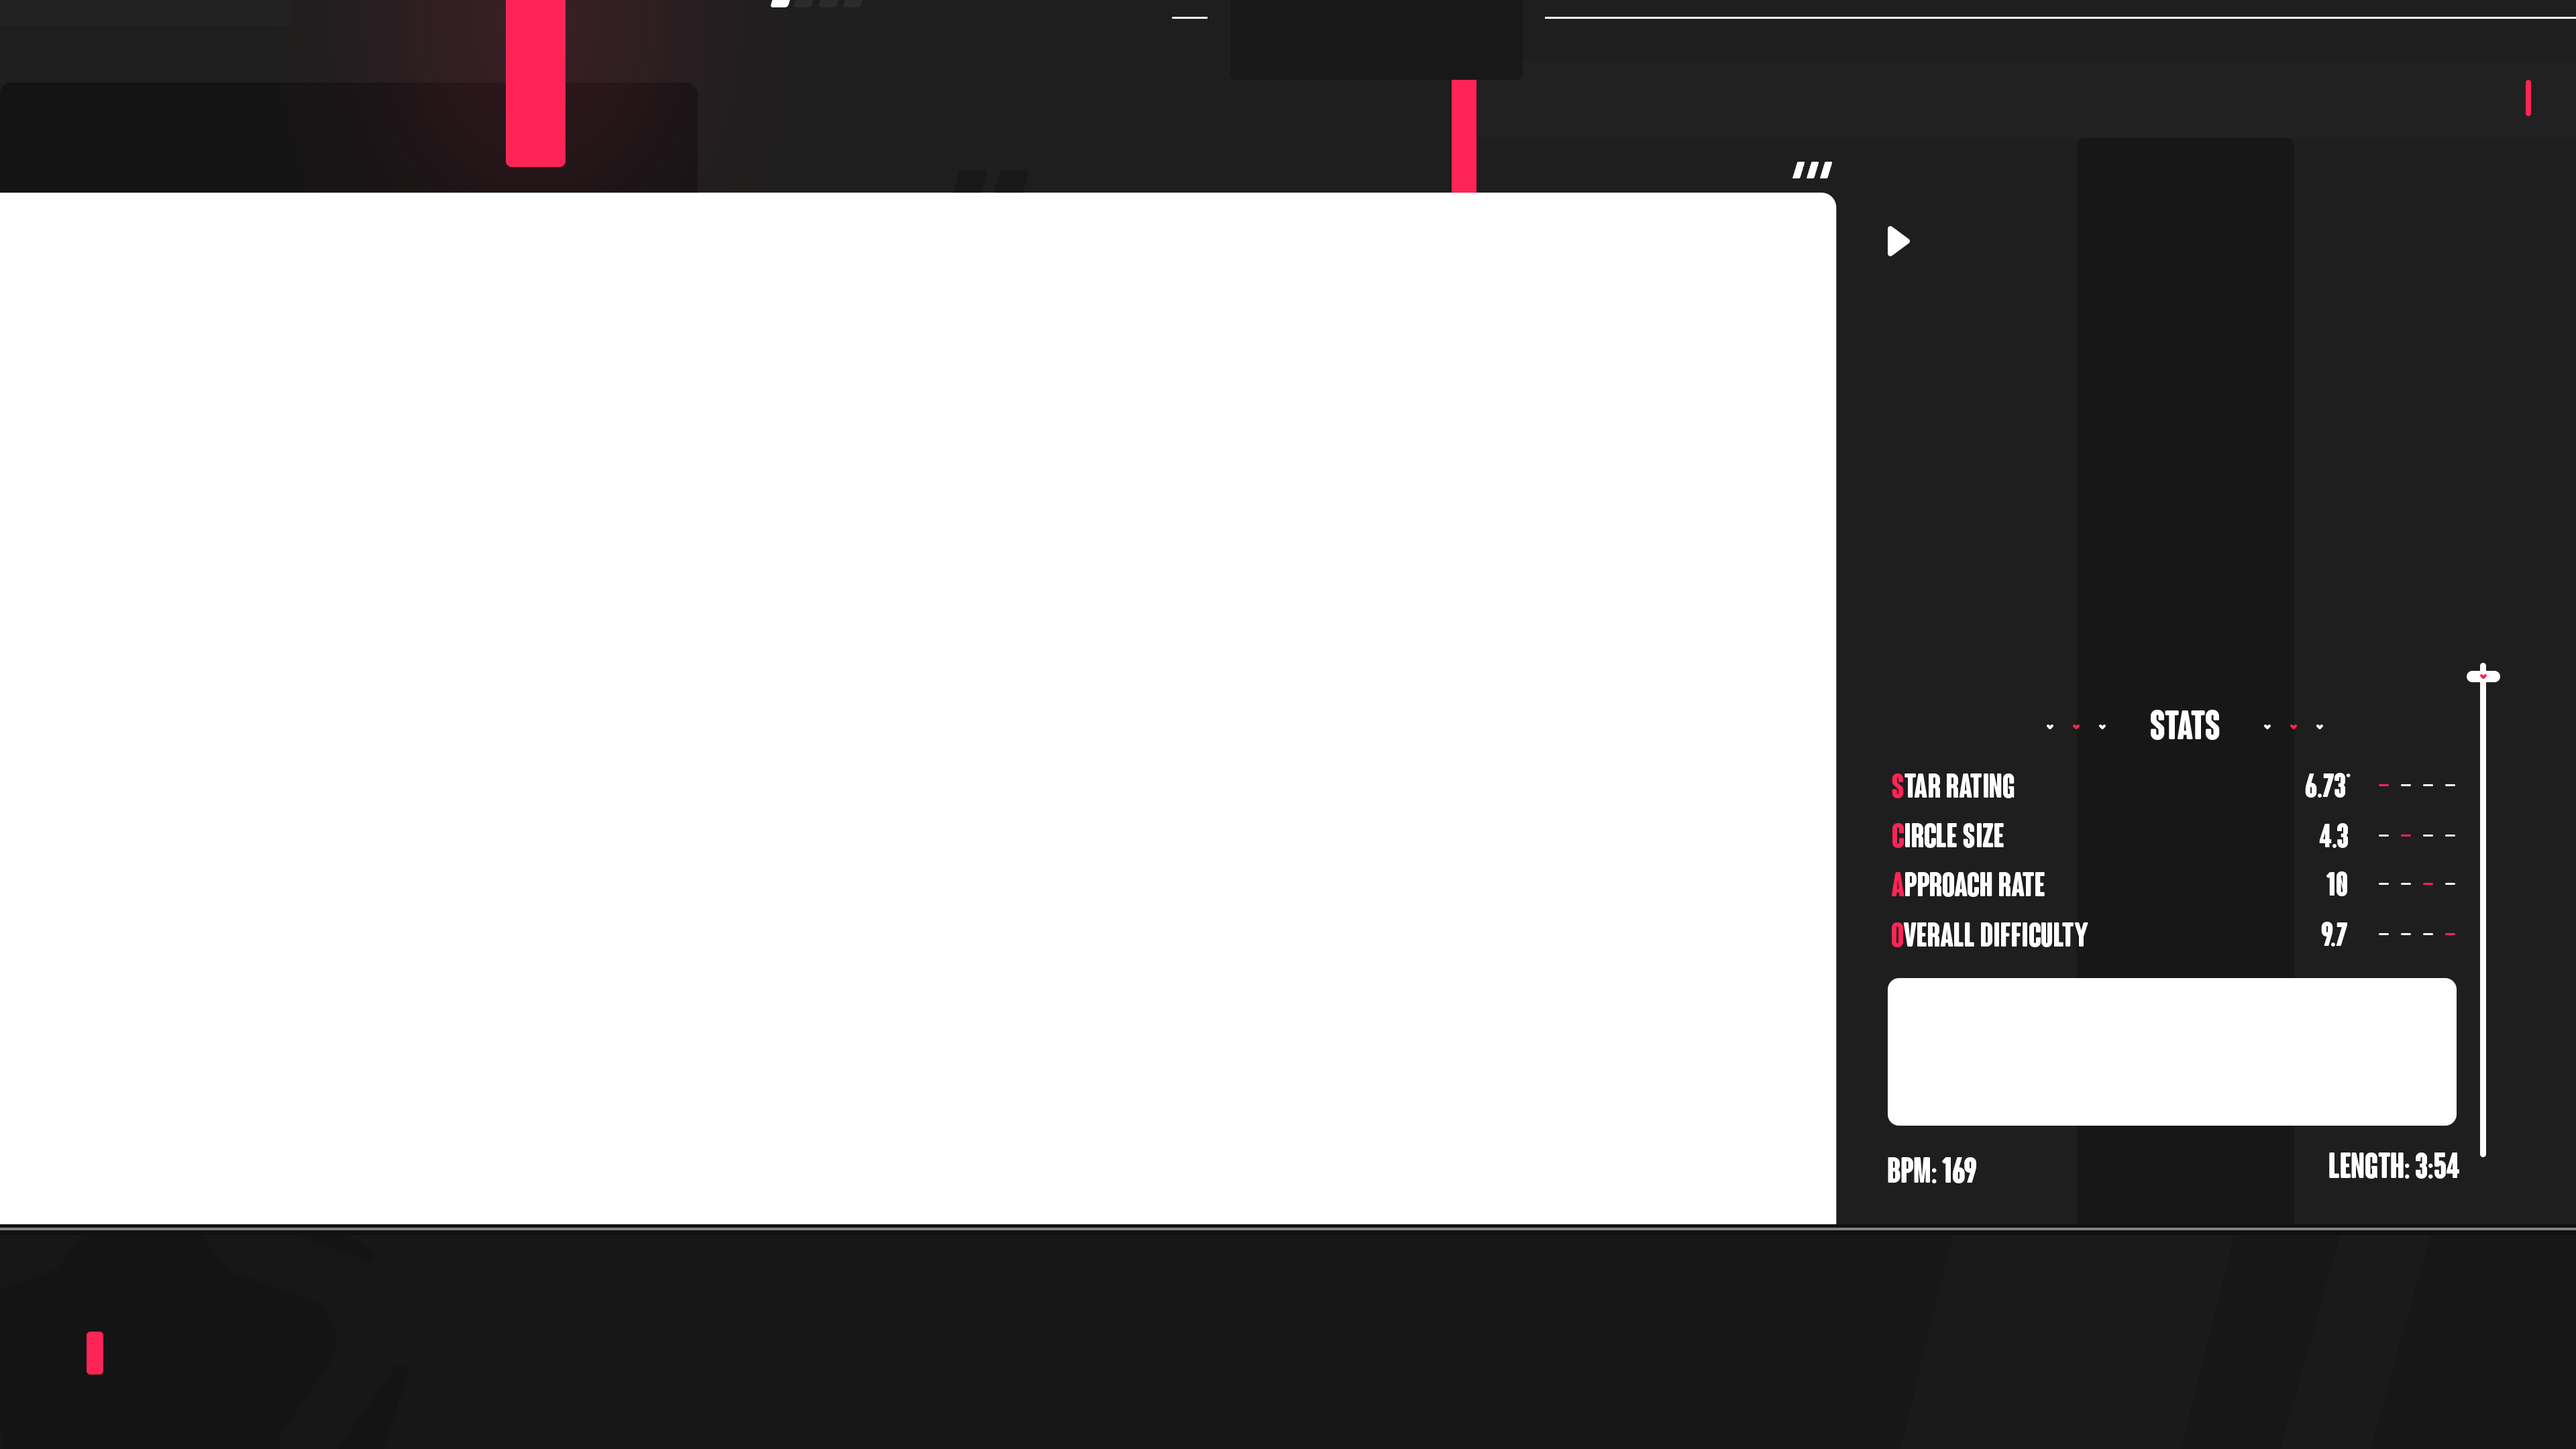
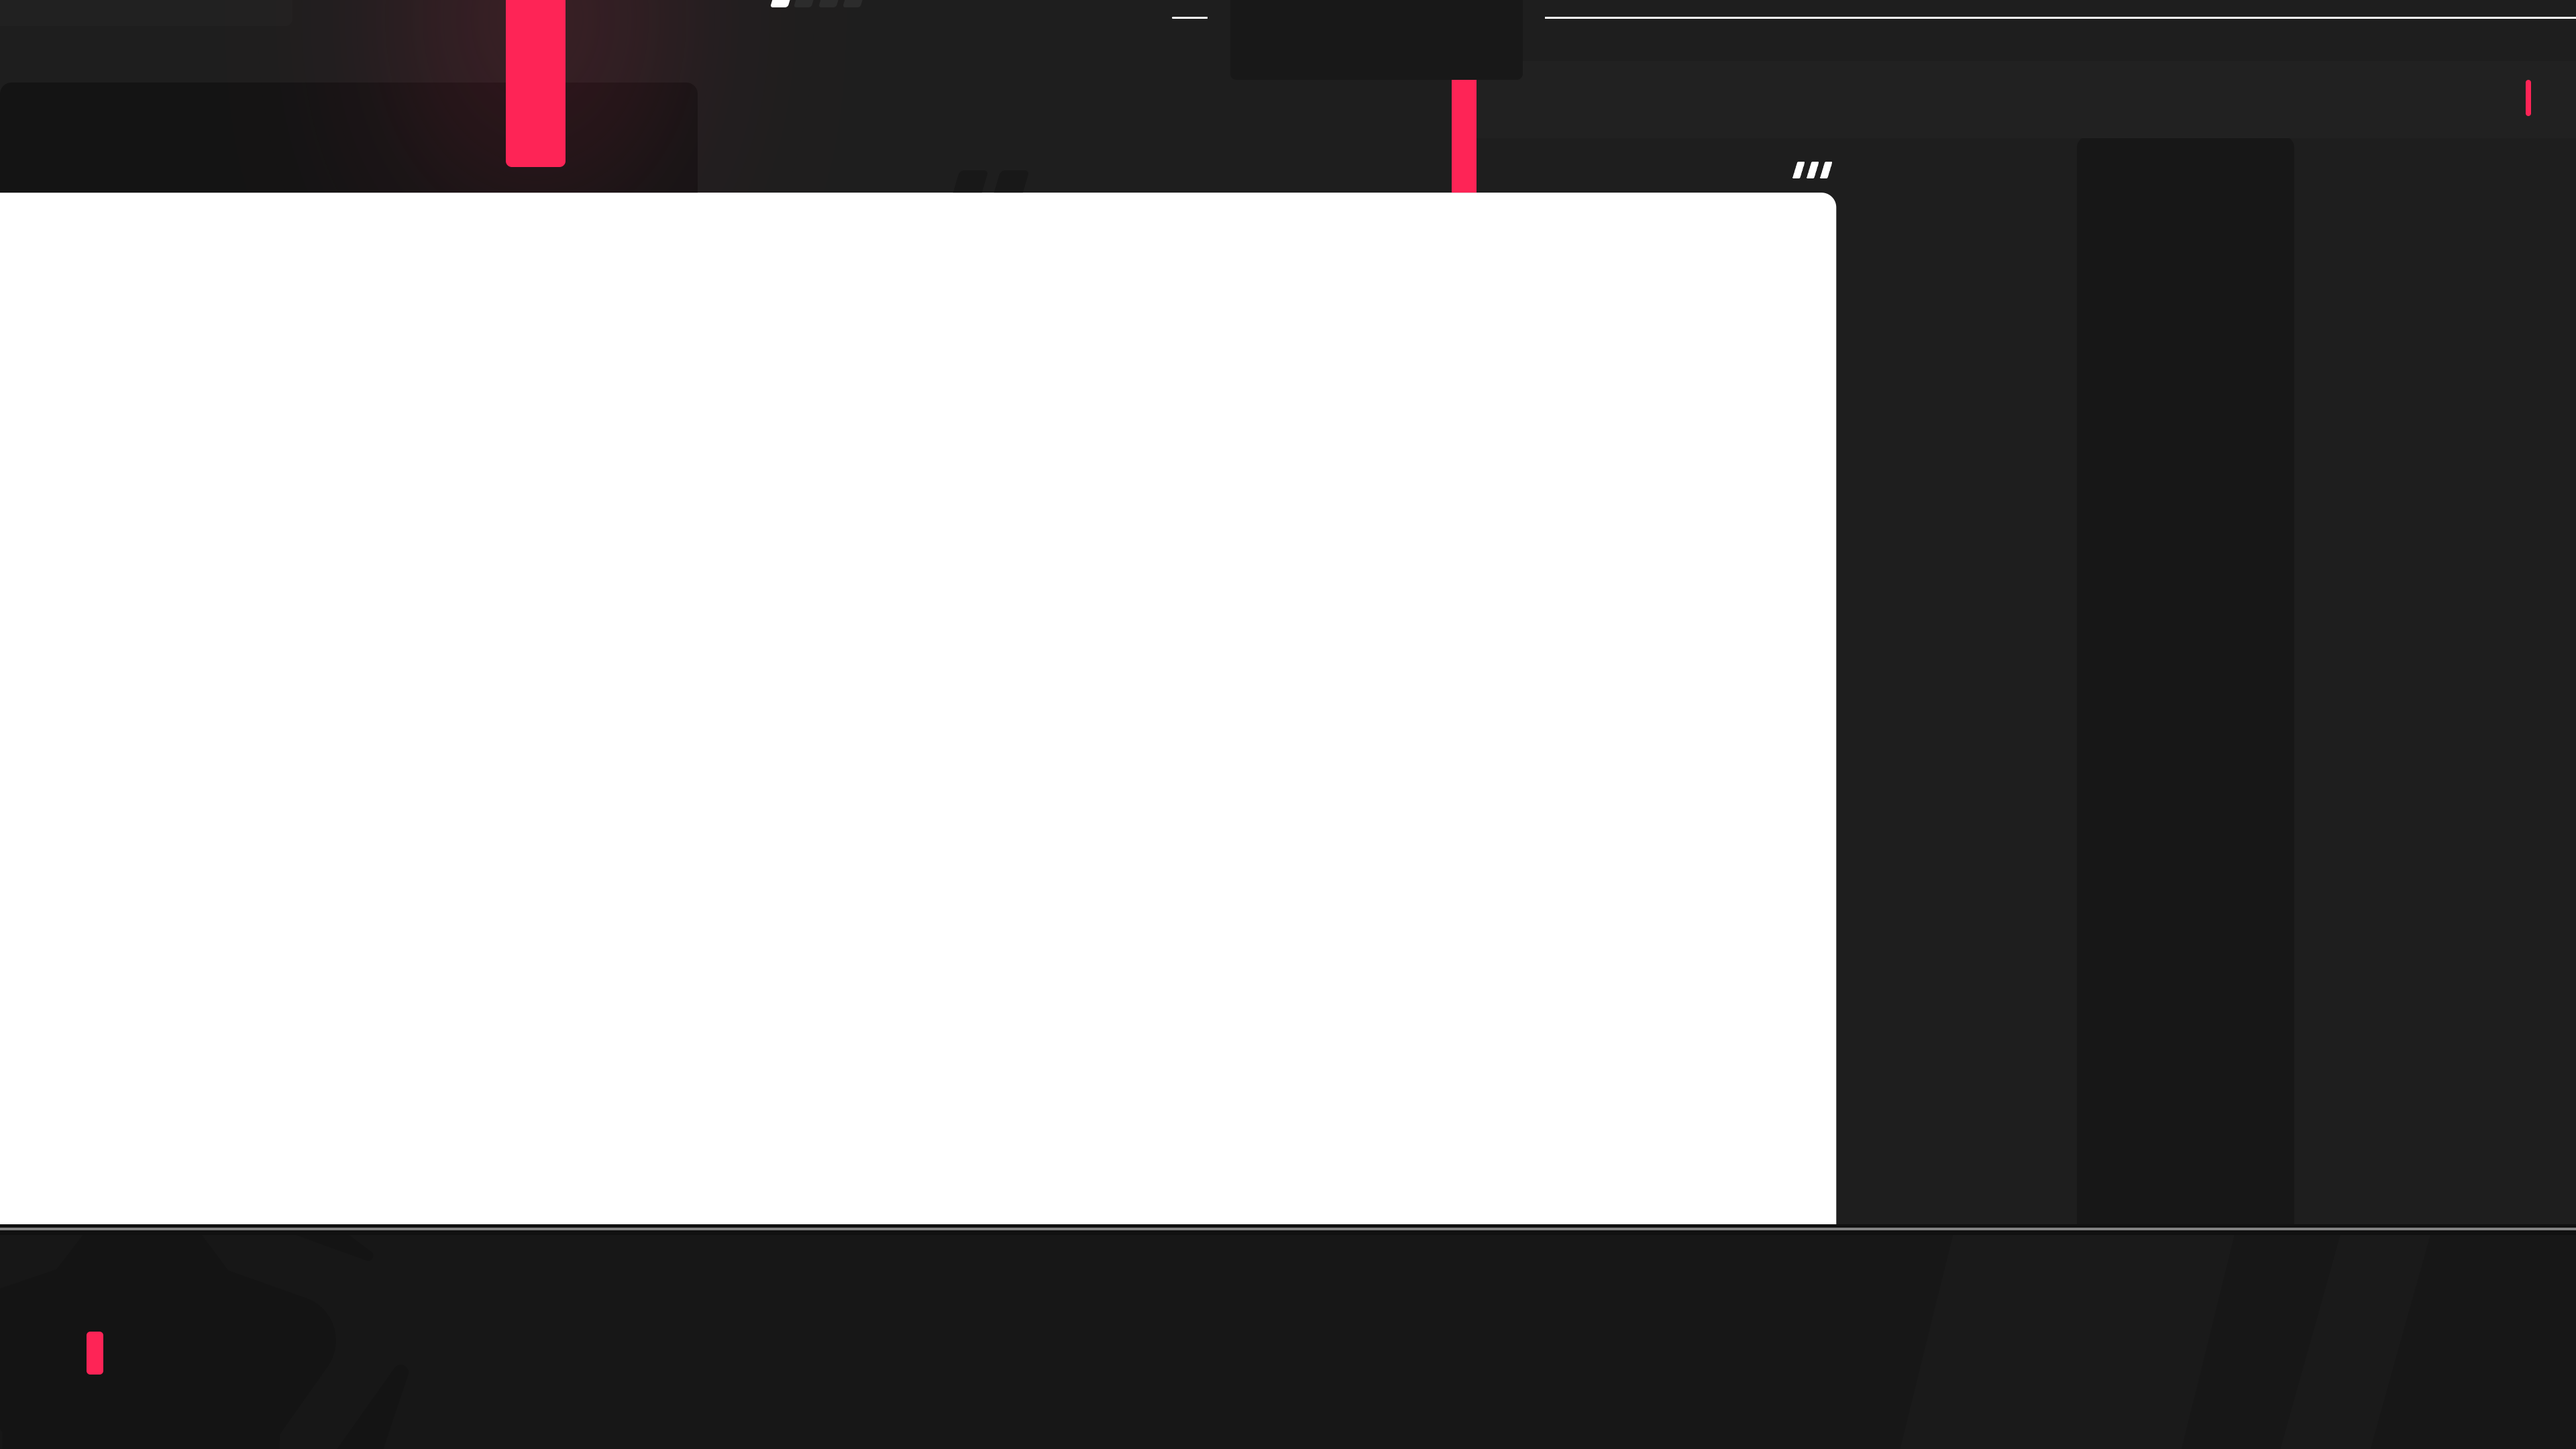
Stylise stats and strain graph
- Stylise main stats texts and rectangles
- Stylise strain graph
- Stylise BPM / Length

diff --git a/showcase/index.html b/showcase/index.html
@@ -30,7 +30,7 @@
                 <div id="replayer">REPLAYER: <span id="replayerUsername">USERNAME</span></div>
                 <div id="nowPlaying"><span class="mainRedColour" id="nowPlayingNowText">NOW </span> <span id="nowPlayingPlayingText">PLAYING</span></div>
             </section>
-            <!-- <section id="nowPlayingCard">
+            <section id="nowPlayingCard">
                 <div id="nowPlayingMap">
                     <div id="nowPlayingMapLayer"></div>
                     <div class="nowPlayingMapInformation nowPlayingMapSongName nowPlayingMapSingleInformation" id="nowPlayingMapSongName">WRITING ON THE WALL</div>
@@ -51,7 +51,7 @@
                     <div class="mapSlideCurrent">HD2</div>
                     <div class="mapSlideRight">HD1</div>
                 </div>
-            </section> -->
+            </section>
             <section id="nowPlayingStatsConnector">
                 <div id="verticalLine"></div>
                 <div id="heartContainer"><img id="nowPlayingStatsConnectorHeartImage" src="static/red_heart.png"></div>
@@ -68,6 +68,53 @@
                     <img class="statsHeart" src="static/red_heart.png">
                     <img class="statsHeart" src="static/white_heart.png">
                 </div>
+            </section>
+            <section id="stats">
+                <div class="statsContainer">
+                    <div class="statsText"><span class="mainRedColour">S</span>TAR RATING</div>
+                    <div class="statsNumber" id="starRatingNumber">6.73*</div>
+                    <div class="statsPosition">
+                        <div class="statsRectangle statsRectangleRed"></div>
+                        <div class="statsRectangle"></div>
+                        <div class="statsRectangle"></div>
+                        <div class="statsRectangle"></div>
+                    </div>
+                </div>   
+                <div class="statsContainer">
+                    <div class="statsText"><span class="mainRedColour">C</span>IRCLE SIZE</div>
+                    <div class="statsNumber">4.3</div>
+                    <div class="statsPosition">
+                        <div class="statsRectangle"></div>
+                        <div class="statsRectangle statsRectangleRed"></div>
+                        <div class="statsRectangle"></div>
+                        <div class="statsRectangle"></div>
+                    </div>
+                </div>   
+                <div class="statsContainer">
+                    <div class="statsText"><span class="mainRedColour">A</span>PPROACH RATE</div>
+                    <div class="statsNumber">10</div>
+                    <div class="statsPosition">
+                        <div class="statsRectangle"></div>
+                        <div class="statsRectangle"></div>
+                        <div class="statsRectangle statsRectangleRed"></div>
+                        <div class="statsRectangle"></div>
+                    </div>
+                </div>
+                <div class="statsContainer">
+                    <div class="statsText"><span class="mainRedColour">O</span>VERALL DIFFICULTY</div>
+                    <div class="statsNumber">9.7</div>
+                    <div class="statsPosition">
+                        <div class="statsRectangle"></div>
+                        <div class="statsRectangle"></div>
+                        <div class="statsRectangle"></div>
+                        <div class="statsRectangle statsRectangleRed"></div>
+                    </div>
+                </div>      
+            </section>
+            <div id="strainGraph"></div>
+            <section id="bpmLenStats">
+                <div>BPM: <span id="bpmNumber">169</span></div>
+                <div>LENGTH: <span id="lengthNumber">3:54</span></div>
             </section>
         </section>
         <section id="bottom">

diff --git a/showcase/css/style.css b/showcase/css/style.css
@@ -184,6 +184,7 @@
     width: 9px; height: 737px;
     background-color: white;
     border-radius: 9px;
+    z-index: -1;
 }
 #heartContainer {
     position: absolute; top: 714px; right: 114px;
@@ -215,6 +216,57 @@
 }
 #statsText {
     margin: 0 50px;
+}
+
+/* --- Stats --- */
+#stats {
+    position: absolute; top: 858px; left: 83px;
+    display: flex; flex-direction: column;
+}
+.statsContainer {
+    position: relative;
+    width: 850px; height: 74px;
+}
+.statsText {
+    font-size: 50px;
+}
+.statsNumber {
+    position: absolute; top: 0; right: 168px;
+    font-size: 50px;
+    letter-spacing: -0.25px;
+}
+#starRatingNumber {
+    right: 165px;
+}
+.statsPosition {
+    position: absolute; top: 24px; right: 7px;
+    display: flex;
+}
+.statsRectangle {
+    width: 18px; height: 4px;
+    border-radius: 4px;
+    background-color: white;
+    margin-left: 15px;
+}
+.statsRectangleRed {
+    background-color: var(--mainRed);
+}
+
+/* --- Strain Graph --- */
+#strainGraph {
+    position: absolute; top: 1172px; left: 78px;
+    width: 847px; height: 220px;
+    background-color: white;
+    border-radius: 17px;
+}
+
+/* --- BPM Length Stats --- */
+#bpmLenStats {
+    position: absolute; top: 1429px; left: 77px;
+    display: flex; justify-content: space-between;
+    width: 850px;
+    font-size: 53px;
+    letter-spacing: -0.4px;
 }
 
 /* ----- BOTTOM SECTION ----- */
